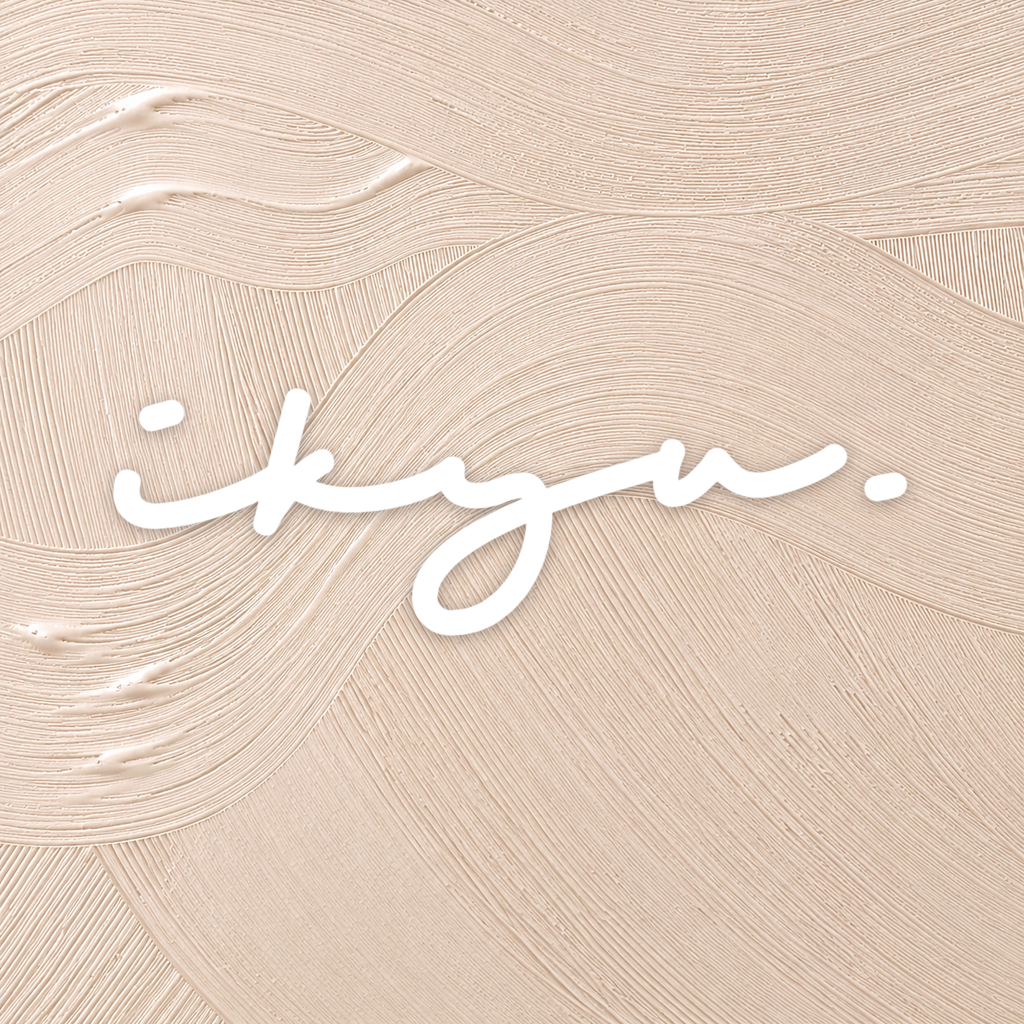
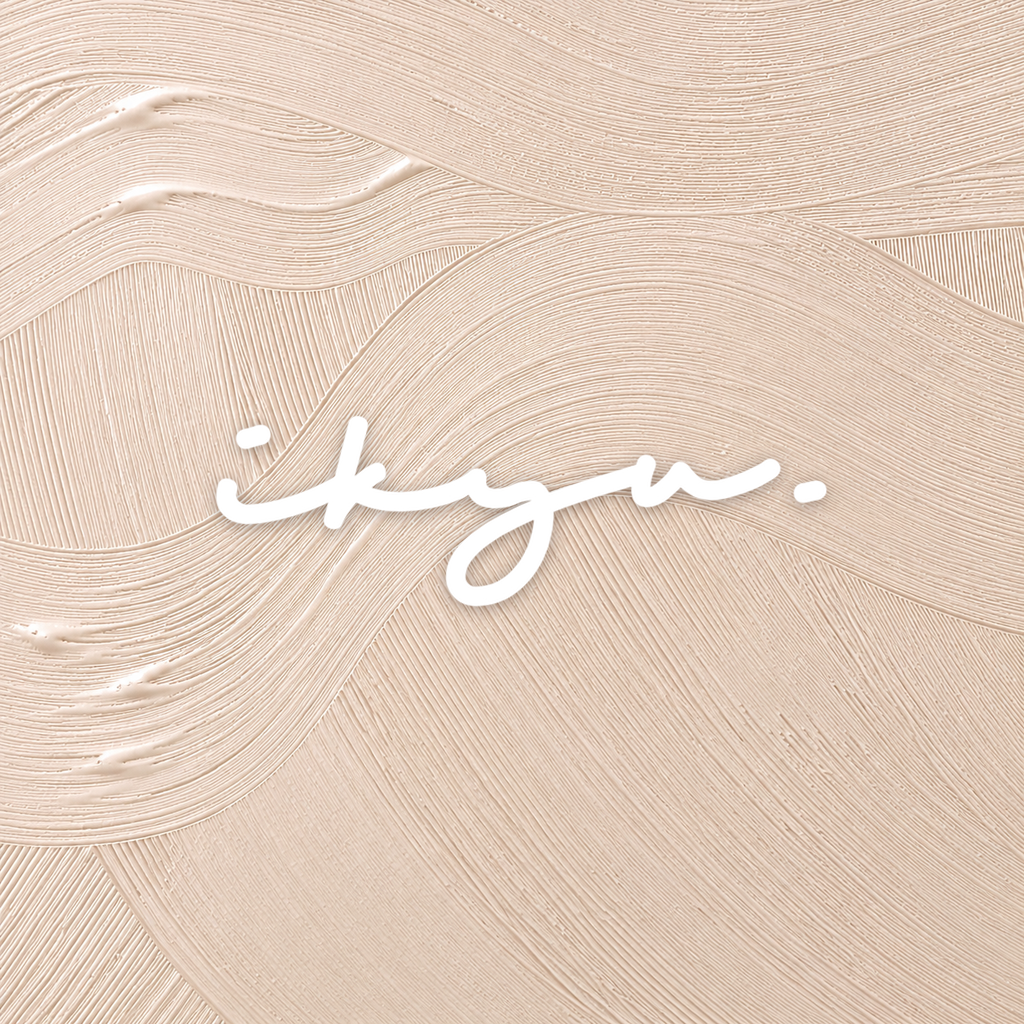
Instagram アイコン Version 4: ロゴ幅を 78% から 60% に縮小
背景の質感をもっと見せるため、55/60/65% を円形・150/77/44/32px で比較し 60% を採用候補に。
幅に余裕ができたため、重心の左寄りを補う右 1% の視覚補正を加える。角度 3.7°・陰影 B は維持。
倍率 1.5 倍未満の確認画像でロゴ内側がわずかに半透明になる不具合を修正（4096px には影響なし）。

Claude-Session: https://claude.ai/code/session_018HXMQ5SW1MaVgJrLrjNWTE

Changed region(s): [[0.0938, 0.375, 0.5625, 0.625], [0.5625, 0.4375, 0.9062, 0.5], [0.125, 0.375, 0.1875, 0.4375]]

diff --git a/design/instagram-icon/build.py b/design/instagram-icon/build.py
@@ -36,8 +36,8 @@ FINAL = HERE / "final"
 SUBTEXT_BOX = (340, 98)  # x >= 340 かつ y >= 98 を透明にする
 
 # レイアウト（キャンバス幅に対する比率）
-LOGO_WIDTH = 0.78  # ロゴの横幅
-OFFSET_X = 0.0  # ロゴ外接矩形の中心を、キャンバス中心からずらす量（右が正）
+LOGO_WIDTH = 0.60  # ロゴの横幅（Version 4 で 78% → 60%。55/60/65% を比較して決定）
+OFFSET_X = 0.01  # ロゴ外接矩形の中心を、キャンバス中心からずらす量（右が正）。重心が左寄りのため視覚補正
 OFFSET_Y = 0.0  # 同上（下が正）
 EDGE_PX = 1.5  # 高解像度化したロゴの縁（アンチエイリアス）の幅。出力画素
 
@@ -104,9 +104,14 @@ def mark_alpha_hr(width: int, rotate: float, crop: bool = True) -> Image.Image:
     f = Image.fromarray(a0, "F").resize((round(a0.shape[1] * s), round(a0.shape[0] * s)), Image.LANCZOS)
     if rotate:
         f = f.rotate(-rotate, resample=Image.BICUBIC, expand=True)
-    g = _gauss(np.asarray(f, np.float64), 0.3 * s)
-    t = np.clip((g - 0.5) / (EDGE_PX / s) + 0.5, 0, 1)
-    a = Image.fromarray(np.round(t * t * (3 - 2 * t) * 255).astype(np.uint8), "L")
+    g = np.asarray(f, np.float64)
+    if s >= EDGE_PX:
+        g = _gauss(g, 0.3 * s)
+        t = np.clip((g - 0.5) / (EDGE_PX / s) + 0.5, 0, 1)
+        g = t * t * (3 - 2 * t)
+    # 倍率が EDGE_PX 未満（縮小〜わずかな拡大）では元の縁の幅のほうが細いため、Lanczos の結果をそのまま使う
+    # （縁を付け直すと内側まで半透明になる）
+    a = Image.fromarray(np.round(np.clip(g, 0, 1) * 255).astype(np.uint8), "L")
     if not crop:  # 検査用: 余白を含めたまま（元画像と位置を対応させるため）
         return a
     return a.crop(a.getbbox())
@@ -295,6 +300,60 @@ def check(imgs: dict) -> dict:
     }
 
 
+def stroke_px_src() -> float:
+    """正式ロゴの線の太さ（元画像の画素）。縦方向の連続した不透明部分の長さの中央値で近似。"""
+    a = np.asarray(Image.open(MARK).getchannel("A")) > 127
+    runs = []
+    for col in a.T:
+        d = np.diff(np.r_[0, col.astype(int), 0])
+        runs += list(np.nonzero(d == -1)[0] - np.nonzero(d == 1)[0])
+    return float(np.median(runs))
+
+
+def widths(candidates=(0.55, 0.60, 0.65), variant: str = "B") -> None:
+    """ロゴ幅の比較資料: 円形表示と実寸の小サイズ表示（150/77/44/32px、白・黒の画面）。"""
+    global LOGO_WIDTH
+    keep = LOGO_WIDTH
+    big, sizes, pad = 380, [150, 77, 44, 32], 24
+    col_w = big + pad
+    head = 34
+    row_small = max(sizes) + 2 * pad + 18
+    H = head + big + pad + 2 * row_small + 40
+    sheet = Image.new("RGB", (pad + len(candidates) * col_w, H), "white")
+    d = ImageDraw.Draw(sheet)
+    src_w = Image.open(MARK).width
+    stroke = stroke_px_src()
+    info = {}
+    for i, lw in enumerate(candidates):
+        LOGO_WIDTH = lw
+        im = compose(1024, variant)
+        x0 = pad + i * col_w
+        d.text((x0, 8), f"logo width {lw * 100:.0f}%", fill=(30, 30, 30), font=font(18))
+        c = circle(im, big)
+        sheet.paste(c, (x0, head), c)
+        for r, (bgc, fg) in enumerate([((255, 255, 255), (60, 60, 60)), ((0, 0, 0), (200, 200, 200))]):
+            top = head + big + pad + r * row_small
+            d.rectangle((x0 - pad // 2, top, x0 + col_w - pad // 2, top + row_small), fill=bgc)
+            x = x0
+            for sz in sizes:
+                cc = circle(im, sz)
+                sheet.paste(cc, (x, top + pad + (max(sizes) - sz)), cc)
+                d.text((x, top + pad + max(sizes) + 2), f"{sz}", fill=fg, font=font(11))
+                x += sz + 10
+        layer = logo_layer(1024)
+        bb = layer.getbbox()
+        info[f"{lw:.2f}"] = {
+            "logo_width_px_at": {str(sz): round(sz * lw, 1) for sz in sizes},
+            "stroke_px_at": {str(sz): round(stroke * sz * lw / src_w, 2) for sz in sizes},
+            "logo_area_share_of_circle": round(float(np.asarray(layer, float).sum() / 255) / (np.pi * 512**2), 3),
+            "gap_left_right_to_circle_edge_ratio": [round(bb[0] / 512, 3), round((1024 - bb[2]) / 512, 3)],
+        }
+    LOGO_WIDTH = keep
+    sheet.save(PREVIEW / "compare-width.png", optimize=True)
+    (PREVIEW / "compare-width.json").write_text(json.dumps({"stroke_px_source": stroke, **info}, ensure_ascii=False, indent=2) + "\n")
+    print(json.dumps({"stroke_px_source": stroke, **info}, ensure_ascii=False, indent=2))
+
+
 def fidelity() -> dict:
     """高解像度化したロゴ（回転なし）を元の大きさに戻し、正式ロゴのアルファと比べる。"""
     src = np.asarray(Image.open(MARK).getchannel("A"), np.float64) / 255
@@ -339,7 +398,7 @@ def final(variant: str) -> None:
 
 if __name__ == "__main__":
     ap = argparse.ArgumentParser()
-    ap.add_argument("cmd", choices=["mark", "preview", "final"])
+    ap.add_argument("cmd", choices=["mark", "preview", "widths", "final"])
     ap.add_argument("--variant", default="B", choices=list(VARIANTS))
     a = ap.parse_args()
-    {"mark": make_mark, "preview": preview, "final": lambda: final(a.variant)}[a.cmd]()
+    {"mark": make_mark, "preview": preview, "widths": widths, "final": lambda: final(a.variant)}[a.cmd]()

diff --git a/design/instagram-icon/README.md b/design/instagram-icon/README.md
@@ -6,8 +6,8 @@
 
 ## 現在地
 
-- 状態：**最終デザイン承認待ち**（Version 3：4096px の完成 PNG 案 B を `final/` に作成済み）
-- 人間が決めたこと（2026-11-02）：陰影は案 B を第一候補／角度 3.7°／ロゴ横幅 78%・中央配置を維持／制作データは承認後に main へ残す
+- 状態：**最終デザイン承認待ち**（Version 4：ロゴ幅 60%・案 B の 4096px 完成 PNG を `final/` に作成済み）
+- 人間が決めたこと（2026-11-02）：陰影は案 B／角度 3.7°／制作データは承認後に main へ残す／Version 4 でロゴ横幅を 78% → 60% に縮小（背景の質感をもっと見せるため。55・60・65% を比較）
 - 次の工程：人間の最終承認 → Draft 解除・マージ（人間）→ Instagram へ設定（人間）
 
 ## 素材と出どころ
@@ -47,10 +47,10 @@
 
 | 項目 | 値 |
 | --- | --- |
-| ロゴ横幅 | キャンバスの 78%（回転前の幅） |
+| ロゴ横幅 | キャンバスの 60%（回転前の幅） |
 | 角度 | 時計回りに 3.7° 回転して水平にする（下記） |
-| 配置 | 回転後のロゴ外接矩形の中心＝キャンバス中心 |
-| 円形トリミング | 中心から最も遠いロゴの画素が内接円の半径の 79% 以内（切れない） |
+| 配置 | 回転後のロゴ外接矩形の中心をキャンバス中心から右へ 1%（視覚補正、下記） |
+| 円形トリミング | 中心から最も遠いロゴの画素が内接円の半径の 63% 以内（切れない） |
 
 ### 角度（Version 2・人間の指示）
 
@@ -59,11 +59,25 @@
 - 実測：筆跡の主軸（画素の不透明度で重み付けした主成分）は **右上がり 3.71°**。列ごとの筆跡の重心を直線で近似すると 4.8°、下端を結ぶと 5〜6°（手書きのベースラインは揺れるため、全体の向きを表す主軸を採用）
 - 回転量 3.7° で主軸は 0.0°。3.0° では 0.7° の右上がりが残る（`preview/compare-angle.png`）
 
-### 視覚的なバランス（Version 3 で確認）
+### 視覚的なバランス（Version 3・4 で確認）
 
 - 角度：3.0°／3.7°／4.5° を円形で見比べ、3.7° が水平に見えることを確認した（数値上も主軸 0.01°）
-- 左右：ロゴの重心は外接矩形の中心より左にある（`i` `k` `y` が詰まり、右端は小さな `.`）。重心に寄せて右へ 1.2%・2.4% ずらす案を円形で比べたが、右へずらすと `.` が円の縁に近づいて窮屈に見えた。両端と円の縁の距離が等しい現在の中央配置（ずらしなし）を維持した
+- 左右：ロゴの重心は外接矩形の中心より左にある（`i` `k` `y` が詰まり、右端は小さな `.`）。Version 3（幅 78%）では、右へずらすと `.` が円の縁に近づいて窮屈に見えたため、ずらさなかった。Version 4（幅 60%）では円の縁まで余裕があるため、右へ 0／1／2% と、右 1%・上 1% を比べ、**右へ 1%** を採用した（重心の左寄りが和らぎ、`.` 側の余白も十分。2% では左の余白が目立つ）
 - 上下：重心はキャンバス中心より約 1% 上、`y` の払いが下に垂れる。円の中で偏りは見えないため調整なし
+
+### ロゴ幅の比較（Version 4・`preview/compare-width.png`・`compare-width.json`）
+
+人間の指示：ロゴが大きすぎるため、背景の質感をもっと見せたい。55%・60%・65% を、円形表示と実寸の 150・77・44・32px（白・黒の画面）で比較した。線の太さは正式ロゴの筆跡（元画像で約 19.5px）から換算。
+
+| 幅 | 円の縁までの余白（左／右、半径比。右へ 1% ずらした状態） | 線の太さ 150px／77px／44px／32px 表示 | 見え方 |
+| --- | --- | --- | --- |
+| 55% | 0.47／0.43 | 2.9／1.5／0.8／0.6px | 背景が最も広い。44px 以下で線が 1px を下回り、白が背景に溶けやすい |
+| **60%（推奨・採用候補）** | 0.41／0.38 | 3.1／1.6／0.9／0.7px | 背景の波の質感が上下左右に見え、77px でも `ikyu.` と読める。44px は 55% より輪郭が残る |
+| 65% | 0.36／0.32 | 3.4／1.8／1.0／0.7px | 小サイズで最も読みやすいが、Version 3 に近く、背景の見える量の改善が小さい |
+
+- 32px は 3 案とも線が 1px 未満で、`ikyu` の文字までは読めない（白×淡いベージュの限界。形の印象として認識される程度）
+- 推奨は 60%：背景を見せる目的と、77px（プロフィール等の主な表示）での読みやすさの両立点
+- 不具合の修正：倍率 1.5 倍未満の確認画像（1024px）で、ロゴの内側がわずかに半透明になっていた（Version 3 の 1024px プレビューで不透明度 95〜98%）。その倍率では縁を付け直さず Lanczos の結果を使うよう修正。4096px の完成 PNG（倍率 4.4〜5.7 倍）には影響なし
 
 | 案 | 陰影 | 見え方 |
 | --- | --- | --- |
@@ -78,11 +92,12 @@
 - `small-{A,B,C}.png`：実寸の円形表示（150 / 110 / 77 / 56 / 44 / 32px、ライト・ダーク画面）
 - `compare-ABC.png`：3 案を同じ縮尺で並べた比較
 - `compare-angle.png`：回転なし／3.0°／3.7° の比較（水平の補助線つき）
+- `compare-width.png`・`compare-width.json`：ロゴ幅 55／60／65% の比較（円形・150／77／44／32px、白・黒の画面）
 - `checks.json`：機械検査の結果
 
 ## 完成 PNG（`final/`）
 
-- `ikyu-instagram-icon-4096-B.png`：4096×4096・sRGB・PNG（約 18MB）
+- `ikyu-instagram-icon-4096-B.png`：4096×4096・sRGB・PNG（約 18MB）。ロゴ幅 60%・角度 3.7°・陰影 B・右へ 1%
 - `preview-circle-B.png`：完成 PNG から作った円形表示（1024px）
 - `preview-small-B.png`：完成 PNG から作った実寸の円形表示（150〜32px、ライト・ダーク）
 - `detail-100pct-B.png`：完成 PNG の一部を等倍で切り出したもの（ロゴの縁と背景の質感の確認用）
@@ -93,14 +108,14 @@
 | 要素 | 元 | 4096px での倍率 | 画質 |
 | --- | --- | --- | --- |
 | 背景 | 1254px | 約 3.27 倍（Lanczos） | ディテールは増えない。等倍で見ると筆跡の細い溝がやや柔らかい。生成 AI の拡大は模様を描き足すため使っていない |
-| ロゴ | 559px 幅（筆跡部分） | 約 5.72 倍（輪郭の再標本化） | 縁はくっきり。ただし形の精度は元の 559px の情報が上限で、元の画素より細かい筆跡の揺れは再現できない |
+| ロゴ | 559px 幅（筆跡部分） | 約 4.40 倍（輪郭の再標本化。Version 3 の 78% では 5.72 倍） | 縁はくっきり。ただし形の精度は元の 559px の情報が上限で、元の画素より細かい筆跡の揺れは再現できない |
 
 - Instagram のアイコンは最大でも 320px 程度で表示されるため、4096px の大部分は表示時に縮小される（推測）。表示上の画質は背景・ロゴとも十分な見込み
 - 印刷など大きく使う場合は、ロゴのベクター版（AI/SVG/PDF）か 4000px 以上の透過 PNG があれば `src/logo-mark.png` を差し替えて `build.py` を再実行すれば作り直せる
 
 ## main に残す方針
 
-人間の決定（2026-11-02）：承認後、この制作データを main に残す。`design/` はサイトのビルド対象外（`public/` ではない）なので、公開ページには影響しない。完成 PNG（約 18MB）とプレビューで、リポジトリが約 40MB 増える。
+人間の決定（2026-11-02）：承認後、この制作データを main に残す。`design/` はサイトのビルド対象外（`public/` ではない）なので、公開ページには影響しない。完成 PNG（約 18MB）とプレビューで、リポジトリが約 37MB 増える。
 
 ## 再現手順
 
